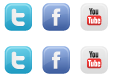
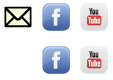
Alterando midias sociais e add campo de pesquisa.

Changed region(s): [[0.0265, 0.025, 0.292, 0.4], [0.0265, 0.575, 0.292, 0.925]]

diff --git a/style.css b/style.css
@@ -676,14 +676,16 @@ padding: 0;
 }
 
 #midias-sociais {
-   float: right;
     height: 40px;
-    width: 50px;
-	padding-top: 3px;
+    overflow: hidden;
+    padding-top: 3px;
+    position: absolute;
+    right: 0;
+    top: 60px;
+    width: 150px;
 }
 
-
-a.link_twitter {
+a.link_email {
     background: url("images/midias-sociais.png") no-repeat scroll 0 0 rgba(0, 0, 0, 0);
     height: 35px;
     padding: 0 !important;
@@ -803,6 +805,11 @@ a.link_youtube {
 	font-weight: bold;
 }
 
+#access .busca {
+	width: 228px;
+	float: right;
+	margin: 5px 10px 0 0;
+}
 
 
 /*  -------     Mapa  ------  */

diff --git a/header.php b/header.php
@@ -24,7 +24,12 @@
 <div id="page" class="hfeed site">
 	<?php do_action( 'before' ); ?>
 	<header id="masthead" role="banner">
-		<div class="imagem-header">		
+		<div class="imagem-header">
+					<div id="midias-sociais">
+					<a href="<?php echo stripslashes (get_option('mo_email')); ?>" class="link_email" target="_blank"></a>
+					<a href="<?php echo stripslashes (get_option('mo_url_face')); ?>" class="link_facebook" target="_blank"></a>
+					<a href="<?php echo stripslashes (get_option('mo_url_youtube')); ?>" class="link_youtube" target="_blank"></a>
+					</div>
 			<a class="logo-header" href="<?php echo esc_url( home_url( '/' ) ); ?>" rel="home"><?php bloginfo( 'name' ); ?></a>
 			
 			<?php
@@ -63,11 +68,9 @@
 			<a class="skip-link screen-reader-text" href="#content"><?php _e( 'Skip to content', 'celulas-theme' ); ?></a>
 			<?php wp_nav_menu( array( 'theme_location' => 'primary' ) ); ?>
 		
-					<div id="midias-sociais">
-					<a href="<?php echo stripslashes (get_option('mo_url_twitter')); ?>" class="link_twitter" target="_blank"></a>
-					<a href="<?php echo stripslashes (get_option('mo_url_face')); ?>" class="link_facebook" target="_blank"></a>
-					<a href="<?php echo stripslashes (get_option('mo_url_youtube')); ?>" class="link_youtube" target="_blank"></a>
-					</div>
+                <div class="busca">
+                	<?php get_search_form(); ?>
+				</div><!-- .busca -->
 		
 		</nav><!-- #access -->
 	</header><!-- #masthead -->

diff --git a/functions.php b/functions.php
@@ -146,9 +146,6 @@ require get_template_directory() . '/inc/customizer.php';
  */
 require get_template_directory() . '/inc/jetpack.php';
 
-//Adiciona o CustomPostType Agenda
-require_once ( get_stylesheet_directory() . '/agenda/requires-agenda.php' );
-
 if ( ! function_exists( 'twentyeleven_admin_header_image' ) ) :
 /**
  * Custom header image markup displayed on the Appearance > Header admin panel.
@@ -217,3 +214,5 @@ endif; // twentyeleven_admin_header_image
 		add_custom_image_header( $custom_header_support['wp-head-callback'], $custom_header_support['admin-head-callback'], $custom_header_support['admin-preview-callback'] );
 		add_custom_background();
 	}
+
+
